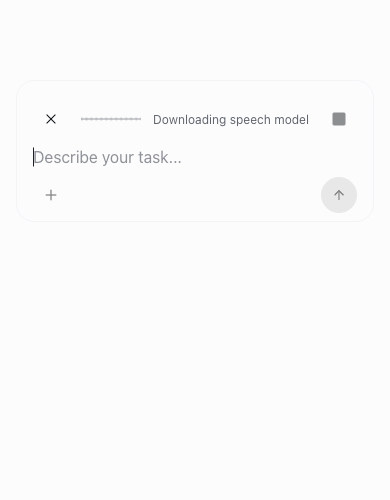
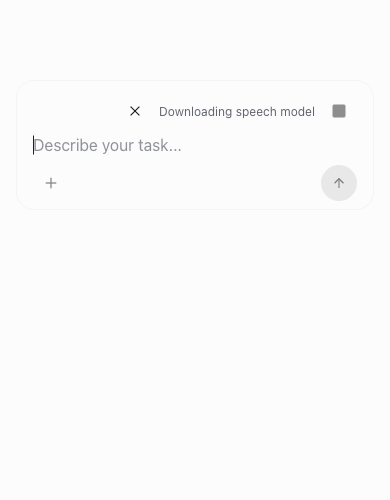
style(dictation): keep recording controls in the top-right corner

diff --git a/apps/app/src/react-app/domains/session/surface/composer/native-dictation-control.tsx b/apps/app/src/react-app/domains/session/surface/composer/native-dictation-control.tsx
@@ -28,13 +28,13 @@ export function NativeDictationRecording({ dictation }: { dictation: ReturnType<
   const levels = useSyncExternalStore(dictation.meter.subscribe, dictation.meter.getSnapshot, dictation.meter.getSnapshot);
   if (!dictation.buffering) return null;
   const status = dictation.installingModel ? "Downloading speech model" : dictation.state === "starting" ? "Starting dictation" : dictation.state === "stopping" ? "Finishing dictation" : "Listening";
-  return <div data-dictation-recording className="flex min-w-0 items-center gap-3 py-2">
+  return <div data-dictation-recording className="ml-auto flex w-fit max-w-full items-center gap-1.5 pb-1">
     <Button type="button" variant="ghost" size="icon" aria-label="Cancel dictation" title="Cancel dictation · Esc"
       onPointerDown={event => event.preventDefault()} onClick={dictation.cancel}>
       <X size={16} strokeWidth={1.5} />
     </Button>
-    <DictationWaveform text="" levels={levels} className="h-8 min-w-0 flex-1 text-dls-secondary motion-reduce:hidden" />
-    <span role="status" className={dictation.state === "listening" ? "sr-only motion-reduce:not-sr-only motion-reduce:flex-1" : "text-xs text-dls-secondary"}>{status}</span>
+    {dictation.state === "listening" ? <DictationWaveform text="" levels={levels} className="h-5 w-24 shrink-0 text-dls-secondary motion-reduce:hidden" /> : null}
+    <span role="status" className={dictation.state === "listening" ? "sr-only motion-reduce:not-sr-only" : "min-w-0 text-xs text-dls-secondary"}>{status}</span>
     <Button type="button" variant="ghost" size="icon" aria-label="Stop dictation" title="Stop dictation"
       disabled={dictation.busy} aria-busy={dictation.busy || undefined}
       onPointerDown={event => event.preventDefault()} onClick={() => { void dictation.toggle() }}>

diff --git a/docs/features/local-dictation/README.md b/docs/features/local-dictation/README.md
@@ -8,7 +8,8 @@ On macOS 26 or later, supported devices and languages use Apple’s
 and languages retain the on-device `SFSpeechRecognizer` fallback.
 
 With the bundled speech helper, click the microphone, speak,
-and press Stop (or Enter). The waveform responds to microphone amplitude;
+and press Stop (or Enter). A compact waveform and recording controls sit in the
+composer’s top-right corner. The waveform responds to microphone amplitude;
 interim recognition stays out of the editor. Once recognition finishes, the
 transcript replaces the original selection or inserts at the original cursor.
 Review or edit it, then choose Send. Cancel or Escape discards the recording.
